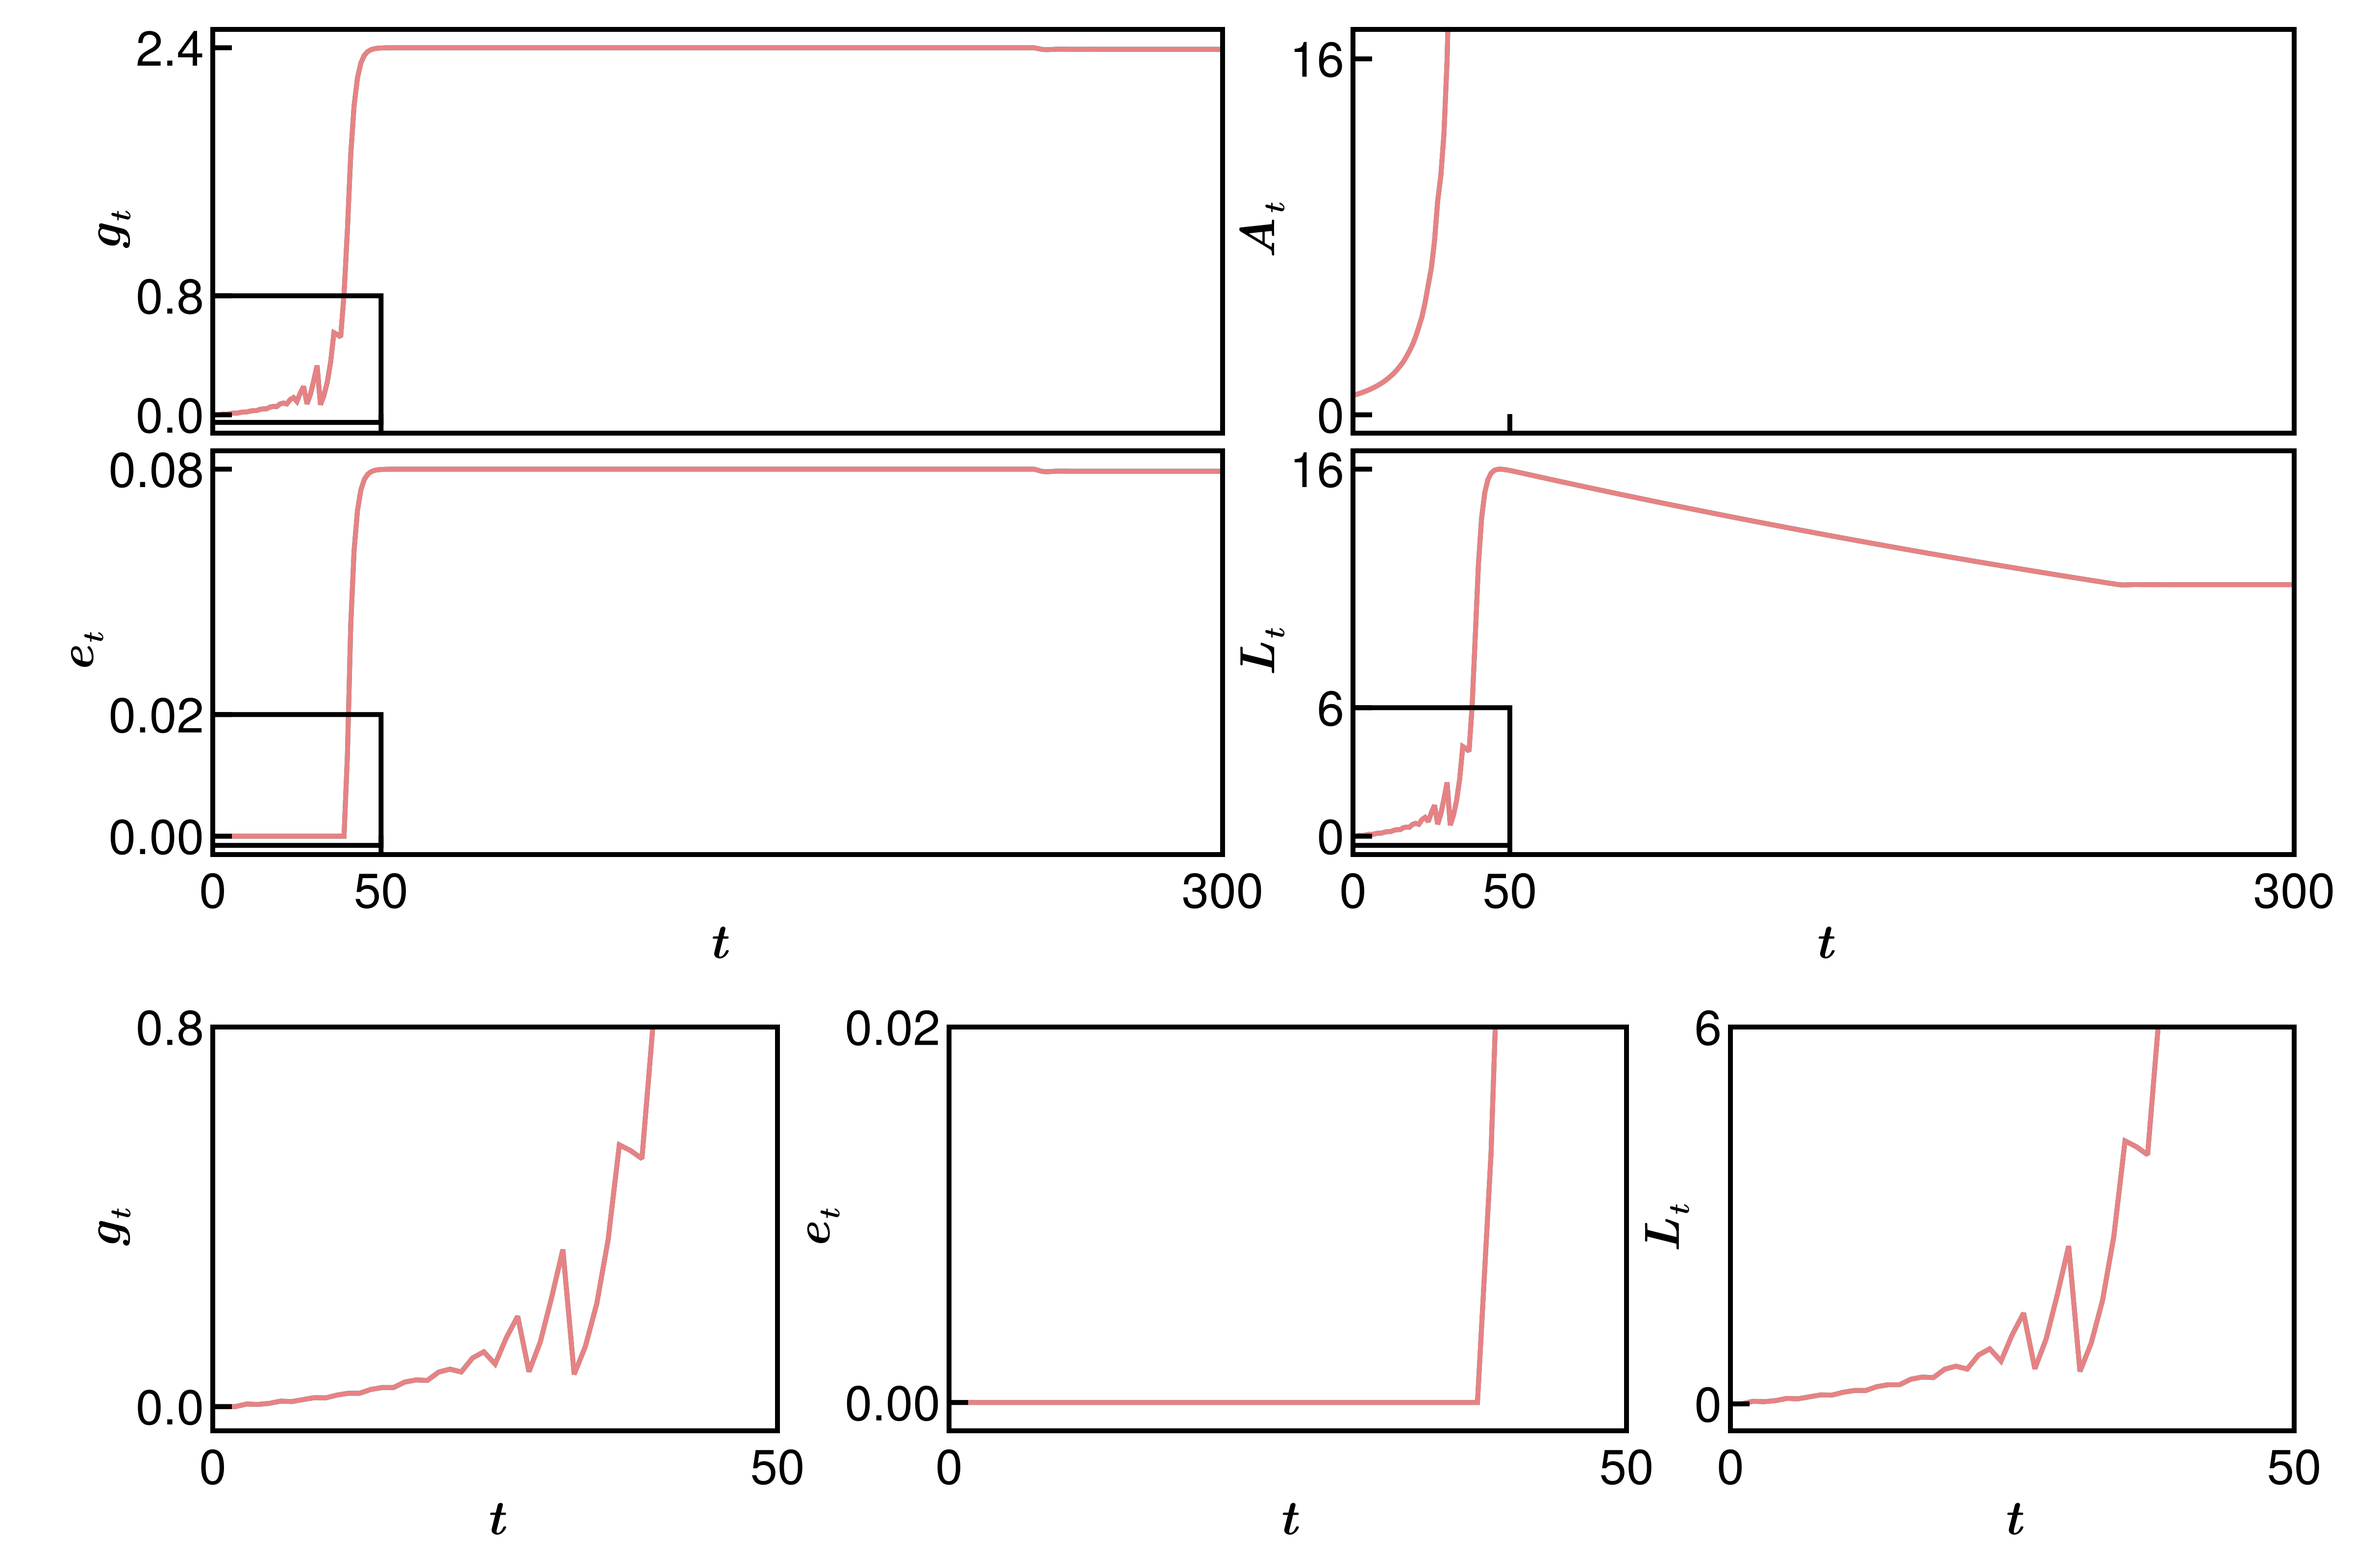
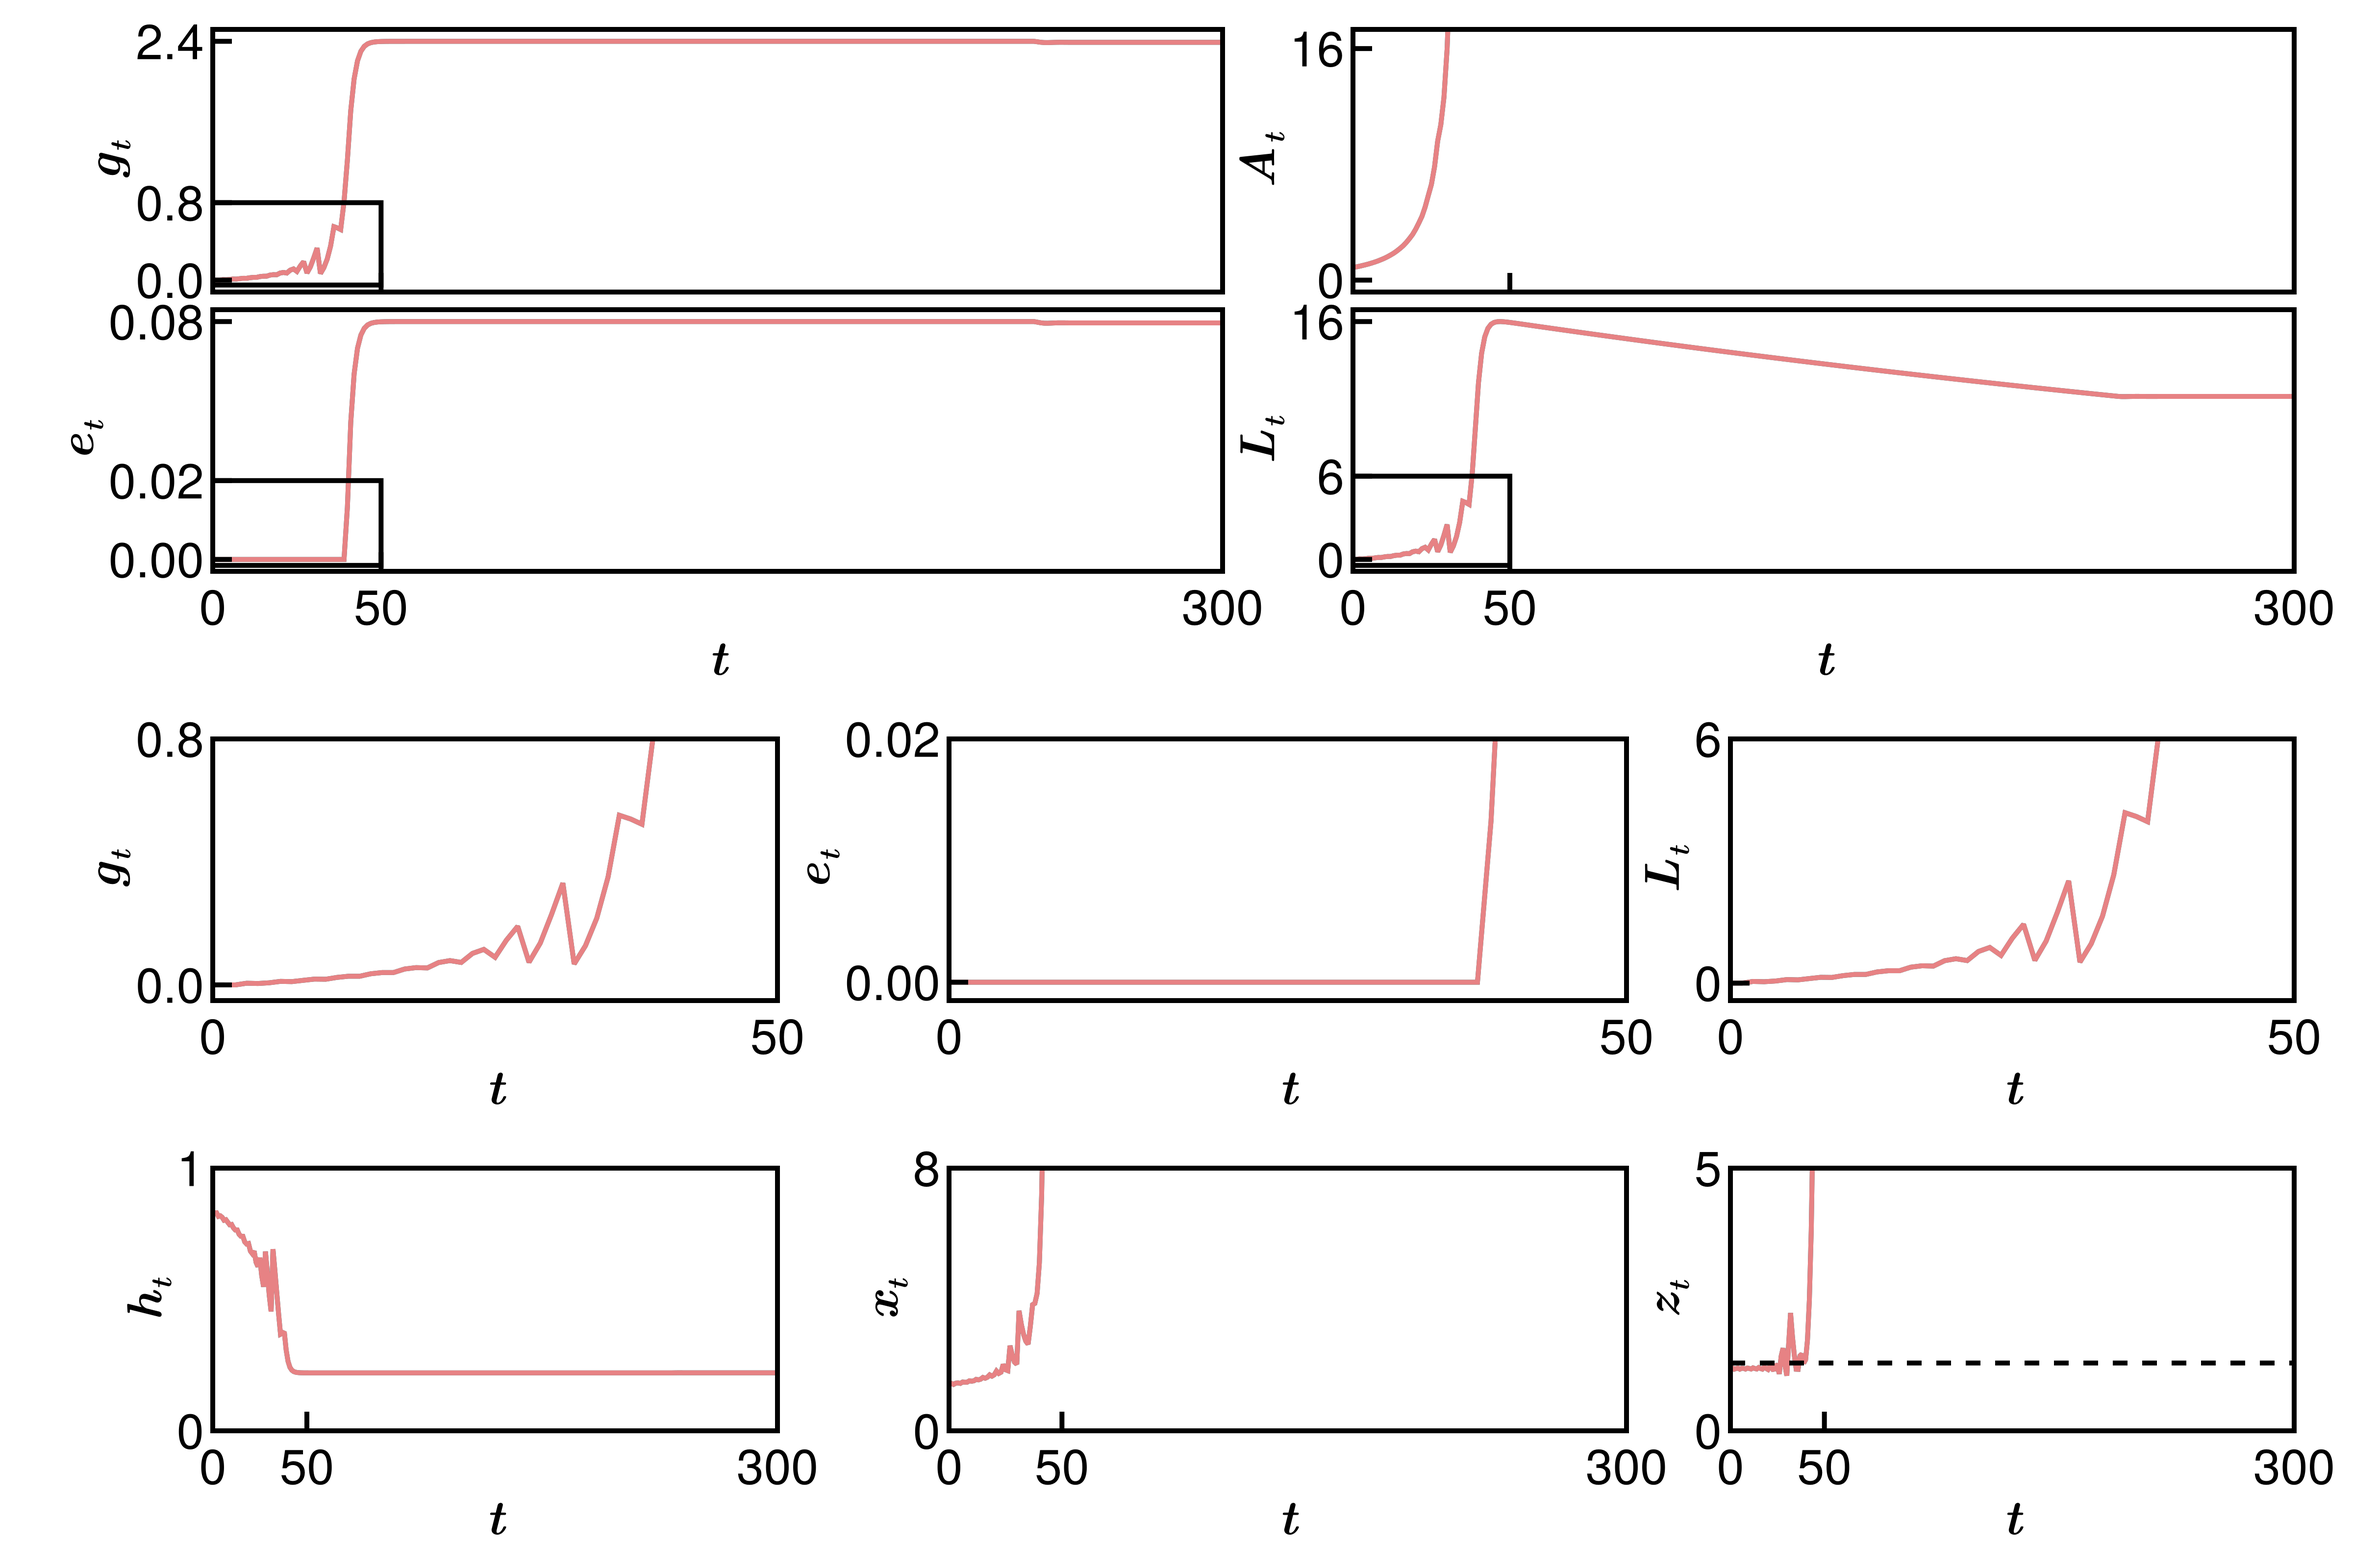
Updated sims and report with plots of the observables

diff --git a/2026_math_econ/doc/sections/subsec:lagerlof.tex b/2026_math_econ/doc/sections/subsec:lagerlof.tex
@@ -9,11 +9,11 @@ In particular it was proposed that
      \mathcal{G}(e,\, L) =& \; (e + \tau\rho)\min\{L,\, L^{*}\} \,,                                           \label{eq:lagerlof_G}
 \end{align}
 with $\rho\in(0,1)$ being the part of the time cost $\tau$ that contributes building human capital and $L^{*} > 0$ plays the role of capping the effect of population growth on the techonological development rate in a sort of scale effect way.
-Putting \eqref{eq:langerlof_h} into \eqref{eq:cond_e} and solving for $e$ yields the final difference equation for the system
+Putting \eqref{eq:lagerlof_h} into \eqref{eq:cond_e} and solving for $e$ yields the final difference equation for the system
 \begin{equation}\label{eq:lagerlof_E}
      \mathcal{E}(e,\, L) = \; \max\Big\{0,\, \sqrt{\mathcal{G}(e,\, L)\,\tau(1-\rho)} - \rho\tau \Big\} \,.
 \end{equation}
-In \cite{Lagerlof06} the authour uses \eqref{eq:lagerlof_h}$-$\eqref{eq:lagerlof_G}, together with $galor_system$, to perform numerical simulations of the system being propagated forward in time.
+In \cite{Lagerlof06} the authour uses \eqref{eq:lagerlof_h}$-$\eqref{eq:lagerlof_G}, together with \eqref{eq:galor_system}, to perform numerical simulations of the system being propagated forward in time.
 To do so, fixed (constant) values are assigned to the various parameters (see \cite[Table 1, p. 128]{Lagerlof06}) and ICs are chosen s.t. the desired behaviour is observed, i.e. one that agrees with the \textit{``long-run growth''} theoretical framework of \cite{Galor00}.
 The authour also notices the \textit{``discovery''} of a new type of oscillatory phenomena in the \textit{``time-paths''} that was not before predicted by the qualitative GW's model.
 We replicate the results depicted in \cite{Lagerlof06} to concretely discuss the main result in such paper.
@@ -22,7 +22,9 @@ We replicate the results depicted in \cite{Lagerlof06} to concretely discuss the
     \centering 
     \includegraphics[keepaspectratio, width=\textwidth]{../figures/timepaths.png}
     \caption{\textbf{Top}: \textit{``Time-paths''} of the dynamical system proposed Lagerlöf from IC $X_{0} = (g_{0},\,A_{0},\,e_{0},\,L_{0}) = (0.048,\, 0.870,\, 0,\, 0.364)$ as specified in \cite{Lagerlof06}. 
-             \textbf{Bottom}: detailed transient of the post-Malthusian regime showing the endogenous \textit{``oscillatory''} behaviour mentioned in \cite{Lagerlof06} preceeding the settlement of $g,\,e,\,L$ onto steady-state values.
+             \textbf{Middle}: detailed transient of the post-Malthusian regime showing the endogenous \textit{``oscillatory''} behaviour mentioned in \cite{Lagerlof06} preceeding the settlement of $g,\,e,\,L$ onto steady-state values.
+             \textbf{Bottom}: observables $h,\,x$, and $z$ of the state variables showing (exponential) non-montonic increase for $x$ and $z \propto x^{1 - \alpha}$ while $h$ decays non-monotonically to a steady state dictated by the fixed point of $e$ and $g$. 
+             The dashed line in the $z$ subplot indicates the treshold $\tilde{z} = \frac{1}{1-\gamma}$ for the switching regime of $L$ in \eqref{eq:galor_system}.
     }
     \label{fig:timepaths}
 \end{figure}

diff --git a/2026_math_econ/doc/sections/subsubsec:state_variables.tex b/2026_math_econ/doc/sections/subsubsec:state_variables.tex
@@ -31,8 +31,8 @@ The state variables of our dynamical systems are $X_{t} = (g_{t},\,A_{t},\,e_{t}
                         e_{t+1} = \mathcal{E}(e,\,L)\,, \\ 
                         L_{t+1} = \mathcal{L}(g,\,A,\,e,\,L) = 
                            \begin{cases}
-                               \frac{\gamma}{\tau + \mathcal{E}(e,\,L)}\,,\;\;z_{t}\geq \frac{1}{1-\gamma},\, \\
-                               \frac{1 - \frac{1}{z_{t}}}{\tau + \mathcal{E}(e,\,L)}\,,\;\;1 < z_{t} < \frac{1}{1 - \gamma},\, \\
+                               \frac{\gamma\,L}{\tau + \mathcal{E}(e,\,L)}\,,\;\;z_{t}\geq \frac{1}{1-\gamma},\, \\
+                               \frac{\big(1 - \frac{1}{z_{t}}\big)\,L}{\tau + \mathcal{E}(e,\,L)}\,,\;\;1 < z_{t} < \frac{1}{1 - \gamma},\, \\
                                0\,,\;\;z_{t}\leq 1.
                            \end{cases}
                 \end{cases}

diff --git a/2026_math_econ/doc/sections/subsec:alternative.tex b/2026_math_econ/doc/sections/subsec:alternative.tex
@@ -2,7 +2,7 @@
 \begin{document}
 \subsection{An alternative model}\label{subsec:alternative}
 Before embarking into the analysis of the model we wish to reformulate its dynamics to be more amenable to the task at hand while satisfying the constrained conditions \eqref{eq:cond_he}$-$\eqref{eq:cond_geL}
-Lagerlöf choice of dynamics \eqref{eq:lagerlof_h}$-$\eqref{eq:lagerlöf_E} is unconventional in classical dynamical systems theory.
+Lagerlöf choice of dynamics \eqref{eq:lagerlof_h}$-$\eqref{eq:lagerlof_E} is unconventional in classical dynamical systems theory.
 While continuous functions of their arguments, they are non-smooth.
 Non-smooth systems may have richer and generically more interesting dynamics (especially in high-dimensions) however they significantly complicate the analysis of their fundamental properties.
 To remedy this we propose the alternative choice 
